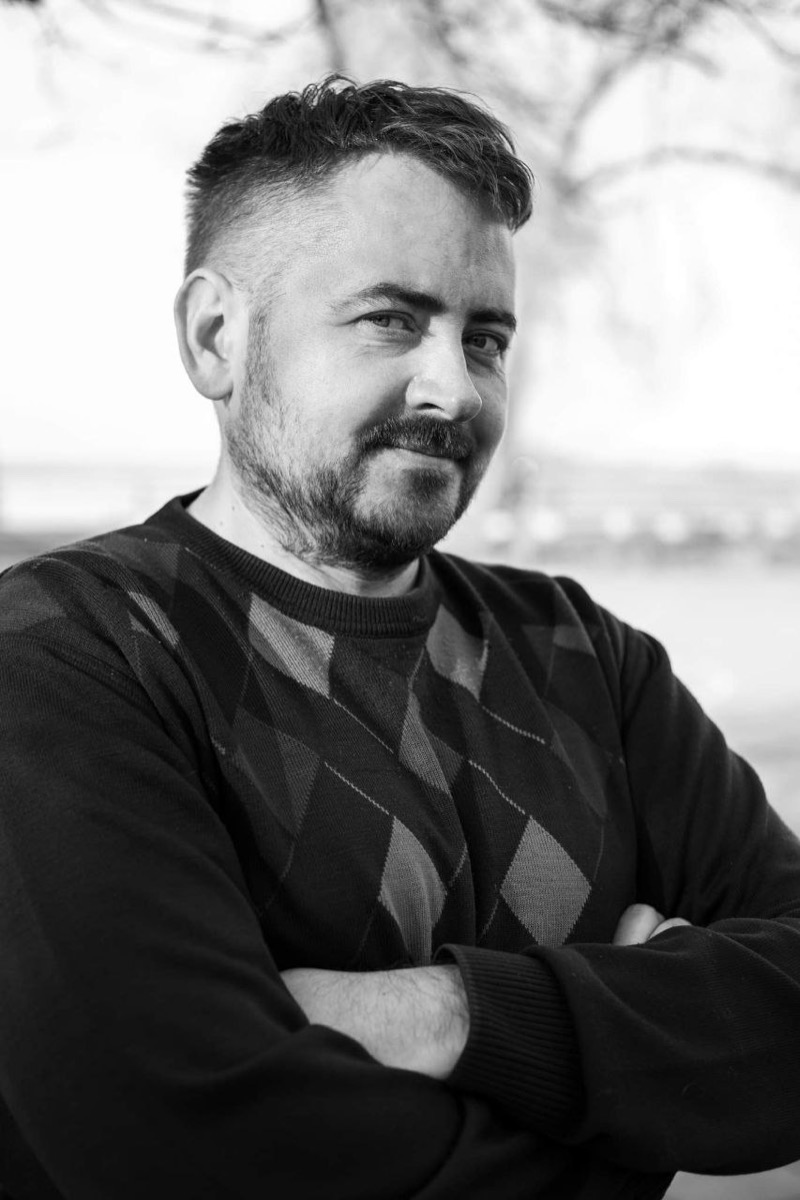
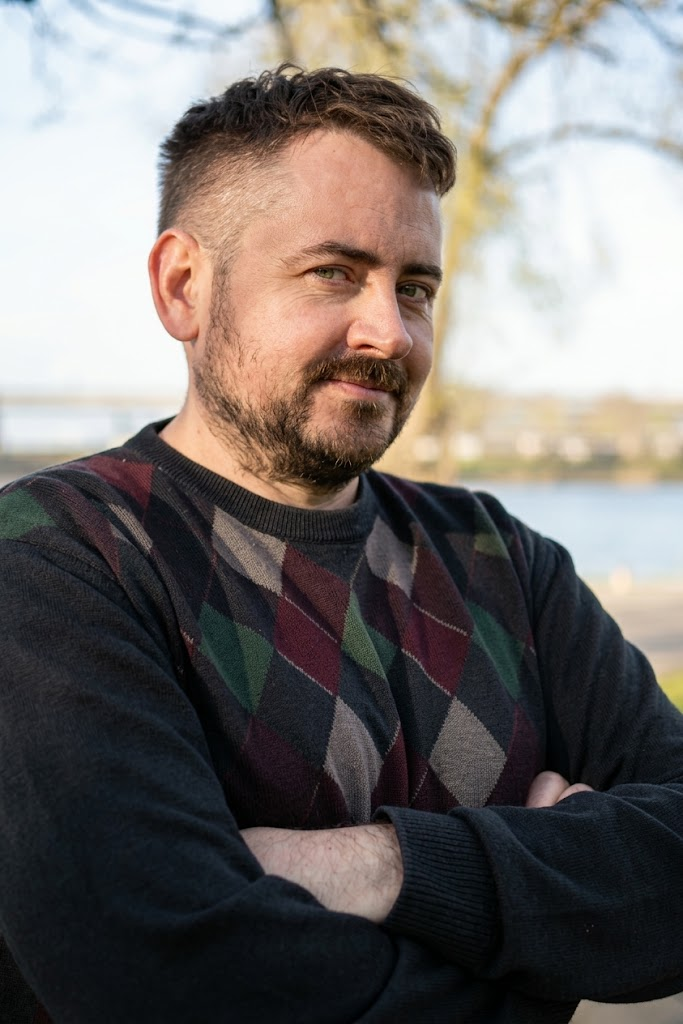
Approve Mikats, Zaitsev, Horbenko; new photos (Mikats and Zaitsev AI-enhanced, Horbenko from the KNU memorial), fair use

diff --git a/src/content/people/uk/sviatoslav-horbenko.md b/src/content/people/uk/sviatoslav-horbenko.md
@@ -12,11 +12,11 @@ summary: "Студент-японіст, який вільно говорив а
 fun_fact: "У Київському університеті імені Тараса Шевченка, де Святослав вивчав японську, його ім'я носить аудиторія Інституту філології, а 2019 року на його честь там посадили сакуру."
 image:
   src: ./images/sviatoslav-horbenko.jpg
-  alt: "Святослав Горбенко в шоломі, бронежилеті й шарфі"
-  position: "50% 30%"
+  alt: "Святослав Горбенко в камуфляжній формі й кепці, зі зброєю в руках"
+  position: "45% 20%"
   author: "Невідомий автор"
   license: "Fair use"
-  source_url: "https://memorybook.org.ua/soldiers/sviatoslav-s-horbenko"
+  source_url: "https://knu.ua/ua/virtual-memorial/gorbenko/"
   fair_use: true
 key_accomplishments:
   - У 15 років закінчив Полтавський ліцей імені Івана Котляревського; навчався в Харкові, а з квітня 2014 року - на японістиці в Інституті філології Київського університету
@@ -36,7 +36,8 @@ sources:
     url: "https://memorybook.org.ua/soldiers/sviatoslav-s-horbenko"
 related: [serhii-tabala]
 collections: [donetsk-airport, civic-icons]
-status: draft
+status: approved
+published: 2026-10-11T19:07:13Z
 ---
 
 ## Чотири мови й одна війна

diff --git a/src/content/people/uk/viacheslav-zaitsev.md b/src/content/people/uk/viacheslav-zaitsev.md
@@ -18,11 +18,13 @@ key_accomplishments:
 birthplace: { name: "Іванівка, Запорізька область", region: zaporizhzhia, country: UA }
 image:
   src: ./images/viacheslav-zaitsev.jpg
-  alt: "Чорно-білий портрет В'ячеслава Зайцева зі схрещеними руками, у светрі з ромбами"
+  alt: "В'ячеслав Зайцев зі схрещеними руками, у светрі з ромбами, на березі річки"
   position: "50% 25%"
   author: "Анатолій Волков (Anatoliy Volkov)"
-  license: "CC BY-SA 4.0"
+  license: "Fair use"
   source_url: "https://commons.wikimedia.org/wiki/File:Zaitcev01.jpg"
+  ai_edit: colorized
+  fair_use: true
 sources:
   - title: "Українська бібліотечна енциклопедія - Зайцев В'ячеслав Олексійович"
     url: "https://ube.nlu.org.ua/article/%D0%97%D0%B0%D0%B9%D1%86%D0%B5%D0%B2%20%D0%92'%D1%8F%D1%87%D0%B5%D1%81%D0%BB%D0%B0%D0%B2%20%D0%9E%D0%BB%D0%B5%D0%BA%D1%81%D1%96%D0%B9%D0%BE%D0%B2%D0%B8%D1%87"
@@ -34,7 +36,8 @@ sources:
     url: "https://www.radiosvoboda.org/a/news-khortytsia-pamyatnyi-znak-zaporizkyi-kiborh-vyacheslav-zaitsev/33449954.html"
 related: [valerii-chybinieiev, pavlo-chaika]
 collections: [donetsk-airport]
-status: draft
+status: approved
+published: 2026-10-11T19:07:13Z
 ---
 
 ## Гранатометник, який «дістав» ворога

diff --git a/src/content/people/uk/oleh-mikats.md b/src/content/people/uk/oleh-mikats.md
@@ -18,8 +18,10 @@ image:
   alt: "Олег Мікац у військовій формі й шапці на березі водойми"
   position: "60% 30%"
   author: "Міністерство оборони України"
-  license: "CC BY-SA 2.0"
+  license: "Fair use"
   source_url: "https://commons.wikimedia.org/wiki/File:Міжнародне_навчання_«Світла_лавина_–_2018»_за_участю_підрозділів_багатонаціонального_інженерного_батальйону_«Тиса»_(45133786201).jpg"
+  ai_edit: restored
+  fair_use: true
 key_accomplishments:
   - "У Збройних силах України з 1992 року; випускник Харківського вищого танкового командного училища (1996)"
   - "Командир 93-ї окремої механізованої бригади (з літа 2013 року); у липні 2014-го бригада взяла під контроль Піски й Первомайське"
@@ -37,7 +39,8 @@ sources:
     url: "https://web.archive.org/web/20141217001928/http://www.cvk.gov.ua/pls/vnd2014/WP407?PT001F01=910&pf7201=12598"
 related: []
 collections: [donetsk-airport]
-status: draft
+status: approved
+published: 2026-10-11T19:07:13Z
 ---
 
 ## Генерал без радянського минулого

diff --git a/src/content/people/en/viacheslav-zaitsev.md b/src/content/people/en/viacheslav-zaitsev.md
@@ -10,7 +10,7 @@ key_accomplishments:
   - "Twice elected to Zaporizhzhia city council (2015, 2020)"
   - "Order for Courage, 3rd class, and 2nd class (posthumously, decree No. 805/2022 of 28 November 2022)"
 birthplace_name: "Ivanivka, Zaporizhzhia region"
-image_alt: "Black-and-white portrait of Viacheslav Zaitsev with his arms crossed, wearing a diamond-patterned sweater"
+image_alt: "Viacheslav Zaitsev with his arms crossed, wearing a diamond-patterned sweater, by a river"
 ---
 
 ## The grenadier who got on the enemy’s nerves

diff --git a/src/content/people/en/sviatoslav-horbenko.md b/src/content/people/en/sviatoslav-horbenko.md
@@ -11,7 +11,7 @@ key_accomplishments:
   - "Defended Donetsk airport from the end of September 2014"
   - "Hero of Ukraine with the Order of the Gold Star (decree No. 449/2021 of 28 August 2021, posthumously)"
 birthplace_name: "Poltava"
-image_alt: "Sviatoslav Horbenko in a helmet, body armor and a scarf"
+image_alt: "Sviatoslav Horbenko in camouflage uniform and a cap, holding a rifle"
 ---
 
 ## Four languages and one war
